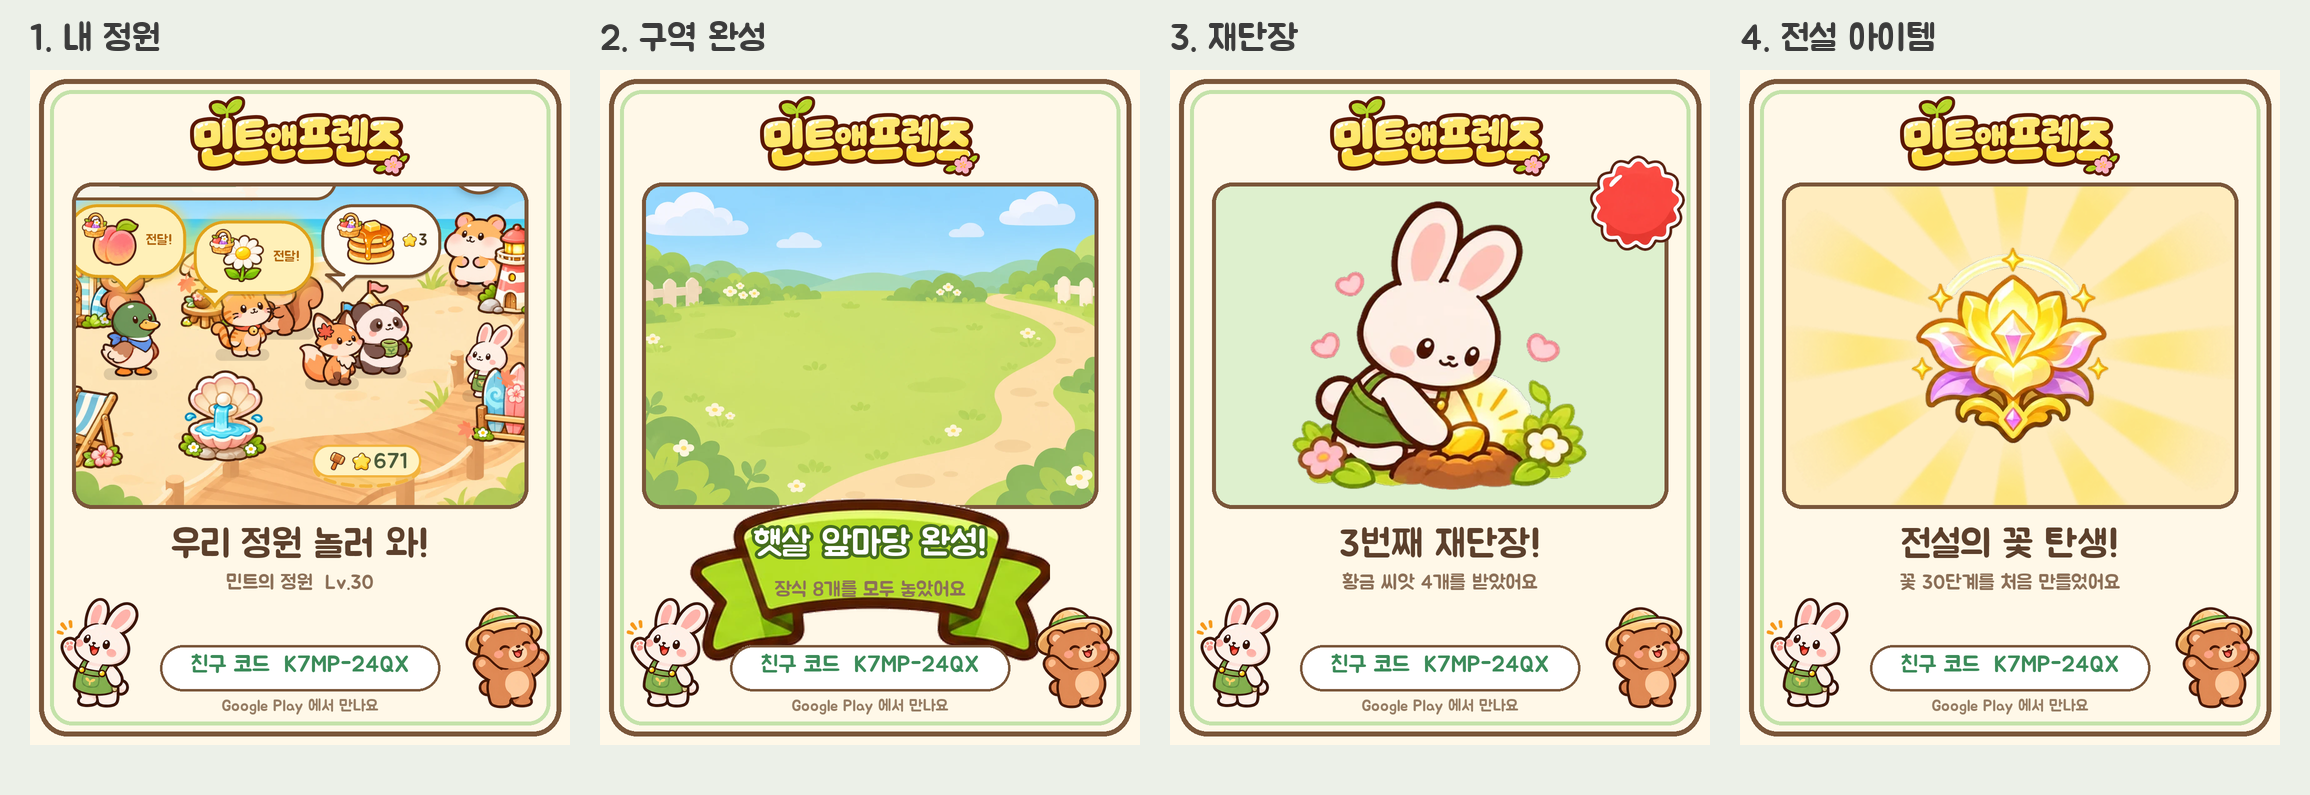
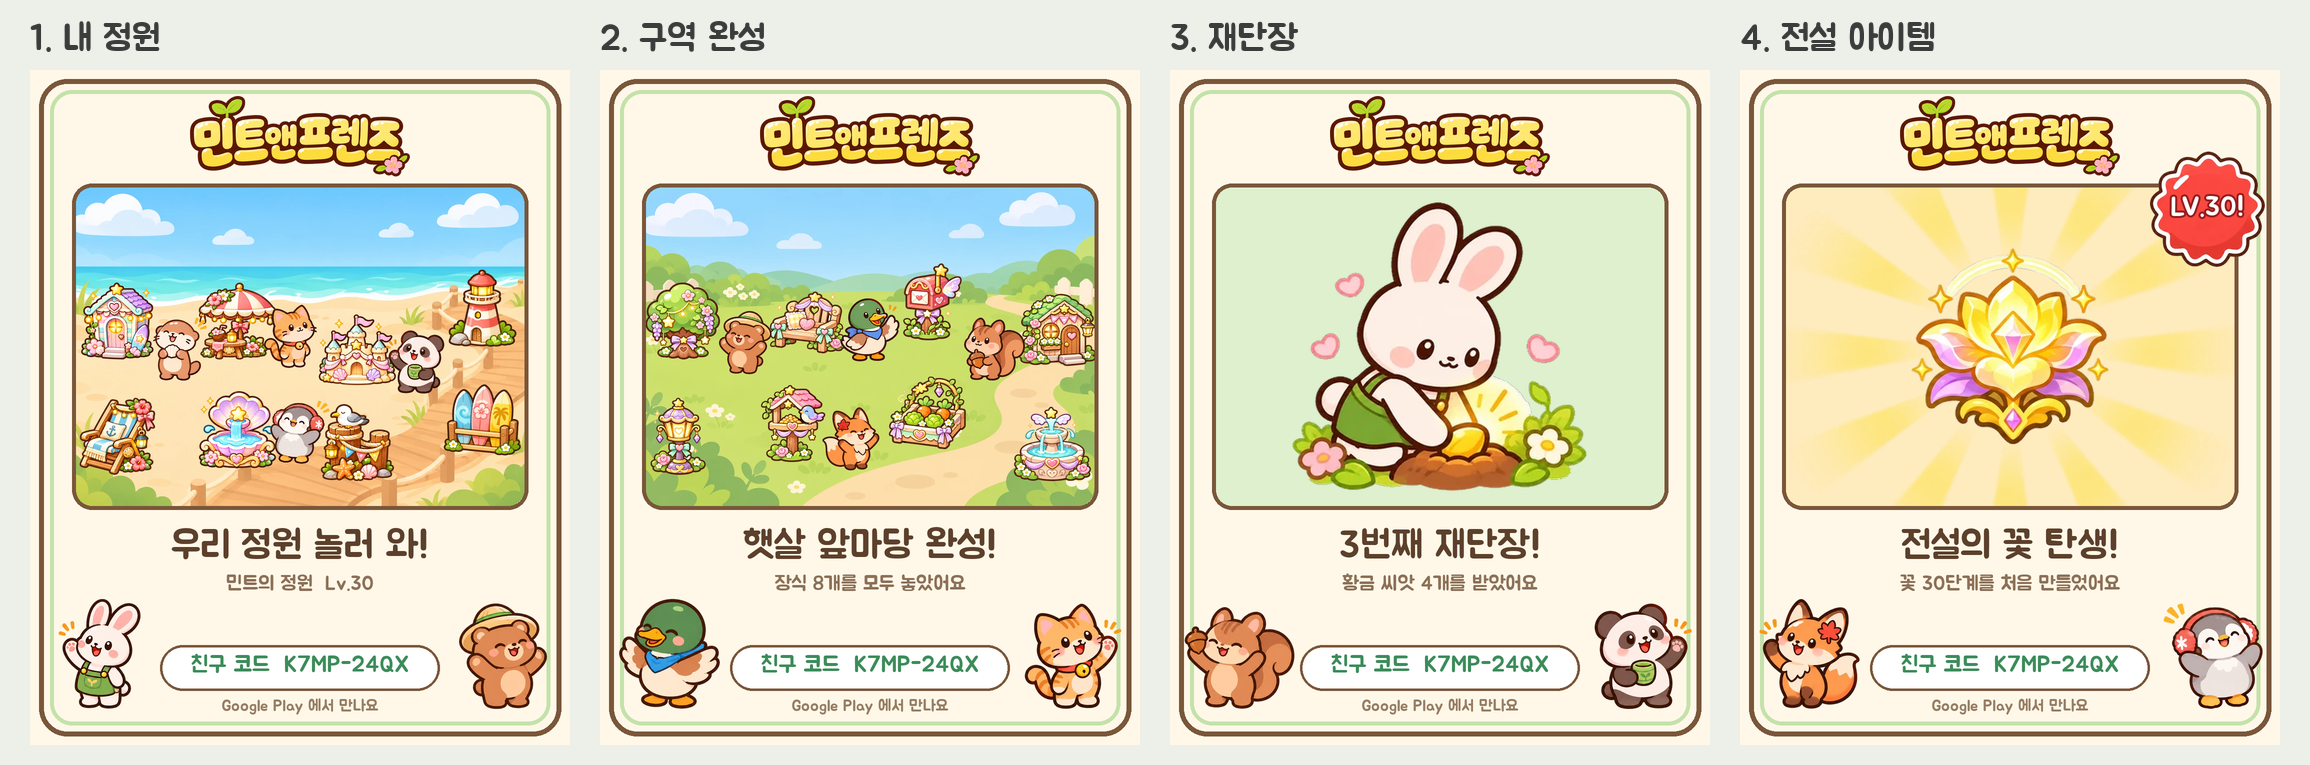
Share card mockup v2 (no ribbon text or bubbles, full gardens, varied friends), art orders 313/315-318 [skip ci]
Claude-Session: https://claude.ai/code/session_011jC4ZDqrEaYqEhudpbFCaM

diff --git a/docs/BIBLE.md b/docs/BIBLE.md
@@ -322,7 +322,7 @@
 | D-042 | 11-22 | 다이아 팩마다 **첫 구매 2배** (장르 표준 첫 결제 장치). Play 상품 ID · 가격은 그대로 두고 게임 안에서 같은 만큼 더 준다. 산 팩 기록은 저장(클라우드 포함)에 남는다. 상점 카드: 빨간 톱니 딱지에 기본 팩 대비 이득 %(+100 · +177 · +245 · +300 · +500 · +573%) + '첫 구매 +N 더'. 첫 구매 실질 가치 2.0~6.7배 (기본 1.0~3.4배) | ✅ |
 | D-043 | 11-22 | 새싹 정원 패키지는 처음 보여 준 뒤 **7일 동안만** 판매(타이머 '7일 00:00:00', 끝나면 상점에서도 사라짐). Play 는 일회성 상품 등록만, 노출 기간은 게임이 정한다 | ✅ |
 | D-044 | 11-22 | 상점 · 결제 퍼널 · 다이아 소비처 분석 이벤트: shop_open · starter_view · iap_begin/cancel/error · gems_spend(+표준 spend_virtual_currency, 사용처 12종 이름표) · ad_unavailable. 콘솔 연결(Firebase↔Play 매출, Firebase↔AdMob 광고 매출, 맞춤 측정기준)은 `docs/store/ANALYTICS.md` | ✅ |
-| D-045 | 11-22 | 공유 · 자랑하기 + 친구 초대: 자랑 카드 4종(내 정원 · 구역 완성 · 재단장 · 전설 아이템, 4:5 1080×1350, 로고 · 친구 코드 · 좌하단/우하단 친구 그림)을 앱 안에서 그려 휴대폰 기본 공유창으로. 축하창에 버튼만 붙이고 자동 팝업은 없음. 초대 링크 = Play 스토어 링크 + 설치 추천인(`referrer=code=…`)으로 첫 실행 때 친구 자동 맺기, 안 되면 코드 직접 입력. 보상: 공유 하루 1번 에너지 10 · 초대받은 새 계정 환영 선물 다이아 50 · 초대한 사람은 그 친구가 **가입 7일 뒤 · 서로 다른 5일 접속 · Lv15** 을 채우면 다이아 100 (최대 5명 = 500). Firestore `invites/{초대받은uid}` 만들기만. 카톡 전용 공유 · io 경유 링크는 2차. 시안 `docs/share/mock_cards.png`, 그림 4건 발주(312~315) | 🟡 그림 대기 |
+| D-045 | 11-22 | 공유 · 자랑하기 + 친구 초대: 자랑 카드 4종(내 정원 · 구역 완성 · 재단장 · 전설 아이템, 4:5 1080×1350, 로고 · 친구 코드 · 좌하단/우하단 친구 그림)을 앱 안에서 그려 휴대폰 기본 공유창으로. 축하창에 버튼만 붙이고 자동 팝업은 없음. 카드에는 말풍선 · 리본 글자 · 쓸데없는 딱지를 넣지 않는다: 내 정원 · 구역 완성은 장식과 친구를 모두 놓은 실제 정원 모습, 전설 아이템만 우상단 'LV.30!' 딱지, 아래 두 친구는 카드마다 다른 종류 · 포즈. 초대 링크 = Play 스토어 링크 + 설치 추천인(`referrer=code=…`)으로 첫 실행 때 친구 자동 맺기, 안 되면 코드 직접 입력. 보상: 공유 하루 1번 에너지 10 · 초대받은 새 계정 환영 선물 다이아 50 · 초대한 사람은 그 친구가 **가입 7일 뒤 · 서로 다른 5일 접속 · Lv15** 을 채우면 다이아 100 (최대 5명 = 500). Firestore `invites/{초대받은uid}` 만들기만. 카톡 전용 공유 · io 경유 링크는 2차. 시안 `docs/share/mock_cards.png`, 그림 4건 발주(312~315) + 로딩 화면 · UI 부품 · 꾸밈 조각 3건(316~318) | 🟡 그림 대기 |
 | D-041 | 11-22 | 기본 언어를 영어로: 스토어 기본 en-US, 게임도 지원하지 않는 기기 언어 · 빠진 문구는 영어. 다음 언어는 설치 수 우선 기준으로 스페인어(중남미 표준) — 영어가 잘 안 통하고 설치가 많은 시장부터 넓혀 이름을 알린 뒤 고부가가치 시장으로. 글꼴은 Jua 에 라틴 확장 글자를 Jua 획으로 직접 넣는다(빠진 글자만 다른 글꼴로 채우면 티가 남) | ✅ |
 | D-039 | 11-21 | 깜짝 상자 → '추천 아이템': 다이아로 사는 상품은 무엇을 받는지 사기 전에 정확히 보여 주고 그대로 준다 (게임산업법 확률형 아이템 = 유상 아이템 중 종류 · 효과 · 성능이 우연으로 정해지는 것 → 해당 없음). 상품은 판 · 보관함 최고 단계 -2~-1 에서 정하고, 사거나 · 날이 바뀌거나 · 바구니가 더 높아질 때만 바뀐다 (다시 뽑기 없음, 저장됨). 값 = 그 아이템 에너지값 × 0.7 | ✅ |
 | D-038 | 11-21 | 경제 구조 재설계 (벤치마크: 쿠키 클리커 · 애드캡 · Egg Inc, 시뮬 감사 = 살 때 값이 최근 24시간 실수입의 몇 시간치). ① 황금 씨앗 = ⌊(누적 코인 ÷ 기준)^(1/3)⌋ − 이미 받은 몫 (회차 코인 기준 → 씨앗이 씨앗을 부르는 눈덩이 제거, 광고 1.5배 덤은 몫에서 안 뺌). ② 바구니 등급은 값으로 묶는다: ×4.0/단계, 12단계부터 ×6.0, 레벨 문턱 3 · 5 · 7 …(바닥만). 결과: 1주차 실수입 ~1.2시간치, 1달 ~2시간치, 후반 최대 ~7시간치. ③ 생산력 · 수익 무한 강화 값에 물가 지수(2.2^(바구니−1)) 곱함. ④ 재단장 뒤 바구니가 만들 수 없게 된 낮은 부탁이 판을 영영 막던 버그 수정 (등급이 오르면 새 부탁 · 별 재계산). 1년 시뮬(열심 무료): 첫 재단장 23일, 13회/년, 최고 단계 아이템 151~220일, 구역 12 · 271일 | ✅ |
